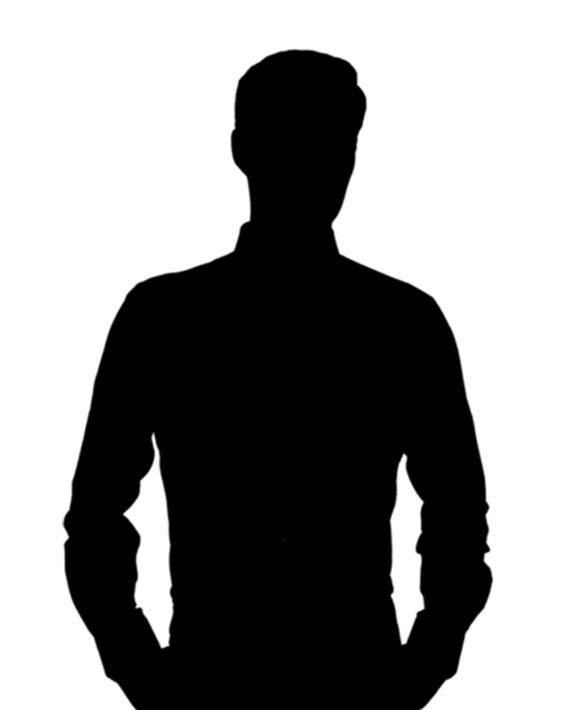
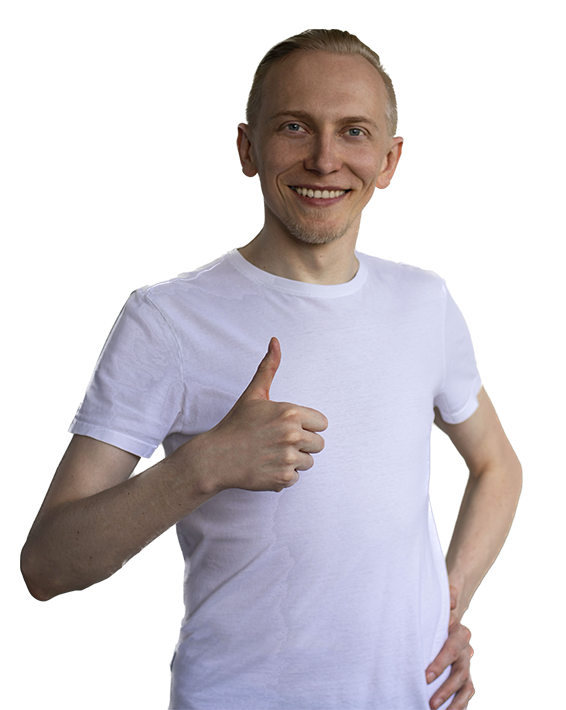
add profile photo

diff --git a/frontend_react/src/container/About/About.jsx b/frontend_react/src/container/About/About.jsx
@@ -1,18 +1,20 @@
-import React from 'react';
-import {motion} from 'framer-motion'
+import React, { useState, useEffect } from 'react';
+import { motion } from 'framer-motion';
 
-import { images } from '../../constants'
-
-import './About.scss'
-
-const abouts = [
-  { title: 'Back-End', description: 'I am a good developer', imgUrl: images.about},
-  { title: 'Front-End', description: 'I am a good developer', imgUrl: images.about},
-  { title: 'Databases', description: 'I am a good developer', imgUrl: images.about},
-  { title: 'Full-Stack Development', description: 'I am a good developer', imgUrl: images.about},
-];
+import './About.scss';
+import { urlFor, client } from '../../client';
 
 const About = () => {
+  const [abouts, setAbouts] = useState([]);
+
+  useEffect(() => {
+    const query = '*[_type == "abouts"]';
+
+    client.fetch(query).then((data) => {
+      setAbouts(data);
+    });
+  }, []);
+
   return (
     <>
       <h2 className="head-text">
@@ -32,7 +34,7 @@ const About = () => {
           className="app__profile-item"
           key={about.title + index}
           >
-            <img src={about.imgUrl} alt={about.title}/>
+            <img src={urlFor(about.imgUrl)} alt={about.title}/>
             <h2 className="bold-text" style={{marginTop: 20}}>{about.title}</h2>
             <p className="p-text" style={{marginTop: 10}}>{about.description}</p>
           </motion.div>

diff --git a/frontend_react/src/client.js b/frontend_react/src/client.js
@@ -1,0 +1,14 @@
+import sanityClient from '@sanity/client';
+import imageUrlBuilder from '@sanity/image-url';
+
+export const client = sanityClient({
+  projectId: process.env.REACT_APP_SANITY_PROJECT_ID,
+  dataset: 'production',
+  apiVersion: '2022-02-01',
+  useCdn: true,
+  token: process.env.REACT_APP_SANITY_TOKEN
+});
+
+const builder = imageUrlBuilder(client);
+
+export const urlFor = (source) => builder.image(source);
